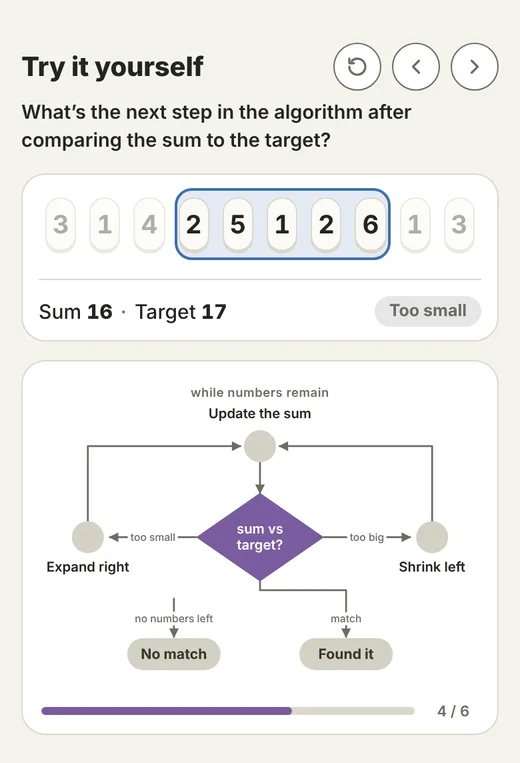
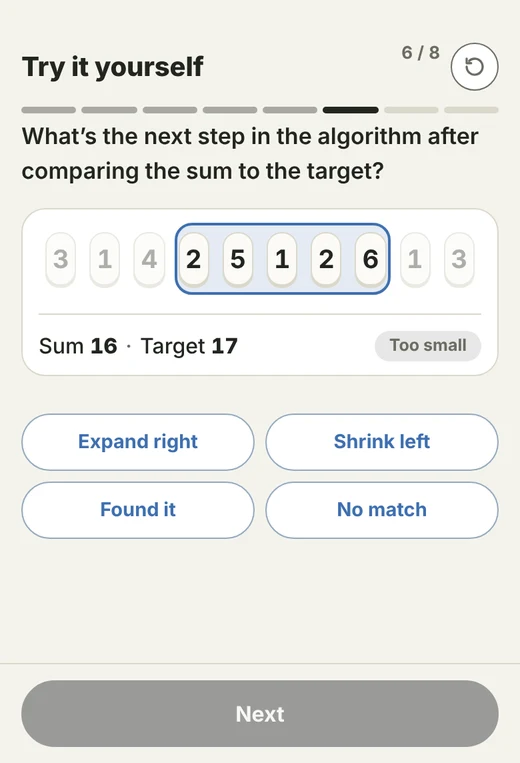
Sliding window: lesson updates (stepper removed, desktop column, Skip, Explanation label) (#37)
* Remove the Algorithm stepper section; lesson is now 8 sections

Claude-Session: https://claude.ai/code/session_01B6u6w9fTGNxU2tRw6eReYt

* Desktop: use the same single-column template as phones (top, visual, inputs, footer nav)

Claude-Session: https://claude.ai/code/session_01B6u6w9fTGNxU2tRw6eReYt

* Footer: Skip on the two animation-only sections (jumps to the finished picture)

Claude-Session: https://claude.ai/code/session_01B6u6w9fTGNxU2tRw6eReYt

* Explanation pages: add an Explanation label above the text

Claude-Session: https://claude.ai/code/session_01B6u6w9fTGNxU2tRw6eReYt

* Slightly larger body text across the lesson (17px)

Claude-Session: https://claude.ai/code/session_01B6u6w9fTGNxU2tRw6eReYt

* Hide the flowchart (puzzle and code sections); markup kept so it is easy to restore

Claude-Session: https://claude.ai/code/session_01B6u6w9fTGNxU2tRw6eReYt

* Code section: drop the intro line

Claude-Session: https://claude.ai/code/session_01B6u6w9fTGNxU2tRw6eReYt

* Home page: new sliding window preview (no flowchart, single-column footer)

Claude-Session: https://claude.ai/code/session_01B6u6w9fTGNxU2tRw6eReYt

---------

diff --git a/public/sliding-window.html b/public/sliding-window.html
@@ -55,7 +55,7 @@ button:disabled{opacity:.35;cursor:default}
 
 .ask{display:flex;flex-direction:column;gap:6px}
 .fr{display:flex;flex-wrap:nowrap;justify-content:space-between;align-items:center;gap:8px;padding-top:12px;border-top:1px solid var(--line)}
-.facts{margin:0;font:500 15px/1.4 var(--font);white-space:nowrap}
+.facts{margin:0;font:500 16px/1.4 var(--font);white-space:nowrap}
 .facts .sep{color:var(--mut);margin:0 6px}
 .fr .pill{font-size:12.5px;padding:4px 11px}
 .facts b{font-weight:800;font-variant-numeric:tabular-nums}
@@ -74,7 +74,7 @@ button:disabled{opacity:.35;cursor:default}
 .opts{display:flex;flex-direction:column;gap:8px}
 .opts[hidden]{display:none}
 .opts button{padding:14px 20px;font-size:16px;text-align:left;border-radius:999px}
-.note{margin:2px 0 0;min-height:21px;font:500 14px/1.5 var(--font);color:var(--mut)}
+.note{margin:2px 0 0;min-height:22px;font:500 15px/1.5 var(--font);color:var(--mut)}
 /* header buttons */
 .top{display:flex;justify-content:space-between;align-items:center;gap:12px}
 .acts{display:flex;gap:8px}
@@ -86,10 +86,14 @@ button:disabled{opacity:.35;cursor:default}
 .seg button[aria-pressed=true]{background:var(--ink);color:var(--card)}
 #app:not([data-view="2"]):not([data-view="3"]) .ch{display:none}
 #tlist{display:none}
+/* flowchart removed from the lesson (markup kept, hidden) */
+#app[data-view="5"] #fcard{display:none!important}
+#app[data-view="6"] :is(.ftog,#fslot){display:none!important}
 .tcall{display:none!important}
 .expl{display:none}#s1[data-ex] .expl{display:block}
 #s1[data-ex] :is(.tin,.tin3,.tctl){display:none!important}
-.expl .say{margin:0 0 14px;font:600 14.5px/1.45 var(--font);text-wrap:pretty}
+.expl .exh{margin:0 0 8px}
+.expl .say{margin:0 0 14px;font:600 17px/1.5 var(--font);text-wrap:pretty}
 .xl{display:flex;flex-direction:column;gap:6px}
 .xr{display:grid;grid-template-columns:1fr 34px;align-items:center;gap:8px}
 .xn{position:relative;display:grid;grid-template-columns:repeat(var(--n),1fr);height:28px;align-items:center;text-align:center;font:700 12.5px var(--font);color:var(--mut);border-radius:8px;background:color-mix(in srgb,var(--mut) 10%,transparent)}
@@ -115,14 +119,14 @@ button:disabled{opacity:.35;cursor:default}
 .achs button:disabled{color:var(--mut);border-color:var(--line)}
 .achs button.ok:disabled{color:var(--hit);border-color:var(--hit);background:color-mix(in srgb,var(--hit) 12%,var(--card));opacity:1}
 .achs button.ok::before{content:'\2713';margin-right:6px;font-weight:800}
-.ld{margin:0;font:600 14.5px/1.45 var(--font);text-wrap:pretty;display:none}
-#app[data-view="4"] #ld4,#app[data-view="6"] #ld6{display:block}
+.ld{margin:0;font:600 17px/1.5 var(--font);text-wrap:pretty;display:none}
+#app[data-view="4"] #ld4{display:block}
 #app[data-view="5"].ask #ldT,#app[data-view="5"].editing #ldT,#app[data-view="5"]:not(.ask) #ldS{display:block}
 #app[data-view="5"].ask[data-lp] #ldN{display:block}#app[data-lp] #ldT{display:none!important}
 .achs .lpb{display:none}#app[data-lp] .achs button:not(.lpb){display:none}#app[data-lp] .achs .lpb{display:block}
 #flow.lp7 .region{stroke:var(--fa);stroke-width:2}#flow.lp7 .lp{fill:var(--fa);font-weight:800}#flow.lp7 #lbNo{fill:var(--fa);font-weight:800}
 .ptx .cap{text-align:left;min-height:0}
-@media (min-width:820px){.ld{font-size:19px;line-height:1.5}.ptx .cap{font-size:17px;line-height:1.5;font-weight:500}}
+@media (min-width:820px){.ptx .cap{font-size:17px;line-height:1.5;font-weight:500}}
 /* third view: variables */
 .vars{display:none;grid-template-columns:1fr 1fr 1.35fr 1fr;gap:8px}
 #app[data-view="6"] .fr{display:none}
@@ -155,7 +159,7 @@ code{font:600 .86em ui-monospace,SFMono-Regular,Menlo,monospace;background:color
 .fslot,.cdo,.cfb{display:none}
 #app[data-view="6"] :is(.fslot,.cdo,.cfb){display:block}
 .fslot{background:var(--card);border:1px solid var(--line);border-radius:18px;padding:10px 12px}
-.cfb{margin:0;font:500 14.5px/1.45 var(--font);min-height:1.45em;text-wrap:pretty}
+.cfb{margin:0;font:500 16px/1.5 var(--font);min-height:1.45em;text-wrap:pretty}
 .cdo button{padding:12px 28px;font-size:14.5px;color:var(--ok);border-color:color-mix(in srgb,var(--ok) 45%,var(--line))}
 .cdo button:disabled{color:var(--mut);border-color:var(--line)}
 #app[data-view="6"] .pg{display:none}
@@ -195,6 +199,7 @@ code{font:600 .86em ui-monospace,SFMono-Regular,Menlo,monospace;background:color
 .stt{font:800 20px/1.2 var(--font);letter-spacing:-.005em}
 .sa{display:flex;gap:8px;flex:none}
 .segs{display:flex;gap:4px}
+.segs button[hidden]{display:none}
 .segs button{position:relative;flex:1;height:5px;padding:0;border:0;border-radius:99px;background:var(--line);transition:background .25s}
 .segs button::before{content:"";position:absolute;inset:-10px 0}
 .segs button.past{background:var(--mut);opacity:.55}
@@ -205,12 +210,12 @@ code{font:600 .86em ui-monospace,SFMono-Regular,Menlo,monospace;background:color
 /* first view: the problem, with worked examples drawn like the window below */
 #app[data-view="0"] #wcard,#app[data-view="0"] #rs,#app:is([data-view="0"],[data-view="1"],[data-view="2"],[data-view="3"]) #rs2,#app[data-view="0"] .seg,#app[data-view="1"] #wcard,#app[data-view="1"] #rs,#app[data-view="1"] .seg,#app[data-view="2"] .seg,#app[data-view="2"] .sr,#app[data-view="3"] .seg,#app[data-view="3"] .sr{display:none}
 #s0{gap:10px}
-.pq{margin:0;font:500 16px/1.45 var(--font)}
+.pq{margin:0;font:500 18px/1.5 var(--font)}
 .pq b{font-weight:800}
 .pq.sub{font-size:14px;color:var(--mut)}
 /* the sample problem: drag across the numbers, then check */
 .pz{background:var(--card);border:1px solid var(--line);border-radius:20px;padding:16px 14px 14px;display:flex;flex-direction:column;gap:14px}
-.pzf{margin:0;font:500 15px/1.4 var(--font);text-align:center;font-variant-numeric:tabular-nums}
+.pzf{margin:0;font:500 16px/1.4 var(--font);text-align:center;font-variant-numeric:tabular-nums}
 .pzf b{font-weight:800}.pzf .sep{color:var(--mut);margin:0 6px}
 .pzr{display:grid;grid-template-columns:repeat(var(--n),1fr);gap:6px;touch-action:manipulation;user-select:none;-webkit-user-select:none}
 .pzr .tl{height:54px;display:grid;place-items:center;border-radius:12px;background:var(--tile);border:2px solid transparent;font:800 20px var(--font);font-variant-numeric:tabular-nums;cursor:pointer;transition:background .15s,border-color .15s}
@@ -231,7 +236,7 @@ code{font:600 .86em ui-monospace,SFMono-Regular,Menlo,monospace;background:color
 .hr .exc{grid-column:1/-1;margin-left:4px;font:600 12px var(--font);letter-spacing:.02em;color:var(--mut)}
 .hr .exc b{color:var(--ink);font-weight:800}
 #cp{font-size:22px;line-height:1;padding:2px 8px}
-.cap{margin:0;min-height:46px;font:600 15px/1.45 var(--font);text-align:center}
+.cap{margin:0;min-height:46px;font:600 16.5px/1.5 var(--font);text-align:center}
 .cap b{font-weight:800;font-variant-numeric:tabular-nums}
 /* flowchart: a shaded loop region, neutral nodes, the current step lights up */
 #flow{display:block;width:100%;height:auto}
@@ -276,28 +281,16 @@ code{font:600 .86em ui-monospace,SFMono-Regular,Menlo,monospace;background:color
 #ed{margin-right:8px}
 #s1[data-ts="2"] .ta,#s1:not([data-ts="2"]) .tb{display:none!important}
 #app.editing #s1.slide .tb,#app.editing #s1.slide .ta{display:block!important}#app.editing #s1.slide .tin.ta{display:flex!important}
-.tin3{margin:0;font:600 14.5px/1.45 var(--font);text-wrap:pretty}
-@media (min-width:820px){.tin3{font-size:19px;line-height:1.5}}
+.tin3{margin:0;font:600 17px/1.5 var(--font);text-wrap:pretty}
 .tnx{padding:12px 6px;font-size:14.5px;border-radius:999px;background:var(--btn);color:var(--onbtn);border-color:var(--btn)}
 .tctl.nx .tbtn{display:none}
-.tin{display:flex;flex-direction:column;gap:8px}.tin p{margin:0;font:600 14.5px/1.45 var(--font);text-wrap:pretty}
+.tin{display:flex;flex-direction:column;gap:8px}.tin p{margin:0;font:600 17px/1.5 var(--font);text-wrap:pretty}
 /* two panels: the words on the left, the thing to look at and play with on the right */
 .slide.two{display:flex;flex-direction:column;gap:20px}
 .pvz{display:flex;flex-direction:column;gap:20px;min-width:0}
 .ptx{display:flex;flex-direction:column;gap:12px;min-width:0}
 .ptx .wintro{text-align:left;text-wrap:pretty}
 .wrap{transition:max-width .35s var(--ease)}
-@media (min-width:820px){
-  #app{max-width:1040px}
-  .sec{margin-bottom:18px}
-  .slide.two{display:grid;grid-template-columns:minmax(0,5fr) minmax(0,7fr);column-gap:0;align-items:stretch}
-  .ptx{padding:4px 44px 4px 0}
-  .pvz{padding-left:44px;border-left:1px solid var(--line)}
-  .ptx .pq,.ptx .wintro,.ptx .tin p{font:600 19px/1.5 var(--font)}
-  .tcall{font-size:17px;line-height:1.5;padding:14px 16px 14px 52px}.tcall::before{left:16px;top:15px}
-  .ptx .pq{font-weight:500}.ptx .pq b{font-weight:800}
-  .tin{gap:14px}
-}
 .skp{color:inherit;background:repeating-linear-gradient(135deg,color-mix(in srgb,var(--under) 50%,transparent) 0 2px,transparent 2px 5px),color-mix(in srgb,var(--mut) 28%,transparent);border-radius:4px;padding:1px 3px;-webkit-box-decoration-break:clone;box-decoration-break:clone}
 .swin{color:inherit;background:color-mix(in srgb,var(--under) 15%,transparent);box-shadow:0 0 0 2px var(--under);border-radius:8px;padding:1px 4px;margin:0 2px;-webkit-box-decoration-break:clone;box-decoration-break:clone}
 .tctl{display:flex;flex-direction:column;gap:6px}
@@ -361,7 +354,7 @@ button[aria-expanded=true]{border-color:var(--mut)}
 .bfc .tr.match:not(.vis){--c:var(--ok)}.bfc .tr.match:not(.vis)::after{display:none}.bfc .tr.match:not(.vis) i{opacity:.34}
 .tlist.sm{--p:9px;padding-top:6px}.tlist.sm .tr{height:6px;margin-bottom:3px;border-radius:3px}.tlist.sm .tr i{border-radius:3px}
 .tlist.sm .tr.match::after{font-size:11px;right:3px}.tlist.sm .tcr{height:12px;border-radius:6px;top:6px}
-.wintro{margin:0;font:600 15px/1.45 var(--font);text-align:center;text-wrap:balance}
+.wintro{margin:0;font:600 17px/1.5 var(--font);text-align:center;text-wrap:balance}
 .wtab{display:inline-flex;gap:2px;padding:3px;border:1px solid var(--line);border-radius:12px;background:var(--card)}
 .wtab button{border:0;background:none;padding:7px 16px;border-radius:9px;font:700 14px var(--font);color:var(--mut);white-space:nowrap}
 .wtab button[aria-pressed=true]{background:var(--ink);color:var(--card)}
@@ -398,13 +391,15 @@ button[aria-expanded=true]{border-color:var(--mut)}
 /* phones: one pane. Keep the thing you act on and what it changes on screen together. */
 .rs2{display:none}.ftog{display:none}.dock{display:contents}
 .cnt{display:none;font:700 13px var(--font);color:var(--mut);font-variant-numeric:tabular-nums;white-space:nowrap}
-.foot{display:none;position:fixed;left:0;right:0;bottom:0;z-index:30;gap:10px;align-items:center;background:var(--bg);border-top:1px solid var(--line);padding:12px max(16px,env(safe-area-inset-right,0px)) calc(12px + env(safe-area-inset-bottom,0px)) max(16px,env(safe-area-inset-left,0px))}
+.foot{display:none;position:fixed;left:0;right:0;bottom:0;z-index:30;gap:10px;align-items:center;background:var(--bg);border-top:1px solid var(--line);padding:12px max(16px,calc((100% - 600px)/2 + 16px)) calc(12px + env(safe-area-inset-bottom,0px)) max(16px,calc((100% - 600px)/2 + 16px))}
 .foot #fb{flex:1;padding:14px 20px;font-size:16px;font-weight:700;border-radius:999px;background:var(--btn);color:var(--onbtn);border-color:var(--btn)}
 .foot #fb:disabled{opacity:.4}
 .foot .rp{flex:none;width:48px;height:48px;padding:0;border-radius:50%;display:grid;place-items:center;color:var(--mut)}
 .foot .rp[hidden]{display:none}
+.foot .sk{flex:none;padding:12px 10px;border:0;background:none;color:var(--mut);font:700 15px var(--font)}
+.foot .sk[hidden]{display:none}
 .foot .rp svg{width:22px;height:22px;fill:none;stroke:currentColor;stroke-width:2;stroke-linecap:round;stroke-linejoin:round}
-@media (max-width:819px){
+@media (min-width:0px){
   .car{overflow:clip}
   .top{display:none!important}
   #cp,#cx{display:none}.cnt{display:inline}
@@ -437,7 +432,7 @@ button[aria-expanded=true]{border-color:var(--mut)}
 </head><body><div class="wrap" id="app">
   <header>
     <div class="top"><h1>Sliding window</h1><div class="acts"><button id="ed" hidden>Edit text</button><button id="rs">Reset</button></div></div>
-<nav class="sec" aria-label="Sections"><div class="shd"><div><b class="stt" id="stt">The problem</b></div><div class="sa"><span class="cnt" id="cnt" aria-live="polite">1 / 9</span><button id="rs2" class="rb rs2" aria-label="Reset"><svg viewBox="0 0 24 24"><path d="M4 12a8 8 0 1 0 2.5-5.8M4 4v4.5h4.5"/></svg></button><button id="cp" class="rb" aria-label="Previous section" disabled><svg viewBox="0 0 24 24"><path d="M15 6l-6 6 6 6"/></svg></button><button id="cx" class="rb" aria-label="Next section"><svg viewBox="0 0 24 24"><path d="M9 6l6 6-6 6"/></svg></button></div></div><div class="segs"><button id="v0" aria-label="The problem" aria-current="true"></button><button id="v1" aria-label="Why Sliding Window" aria-current="false"></button><button id="v7" aria-label="Why Sliding Window, continued" aria-current="false"></button><button id="v2" aria-label="Try it yourself" aria-current="false"></button><button id="v3" aria-label="Try it yourself, part two" aria-current="false"></button><button id="v4" aria-label="Algorithm" aria-current="false"></button><button id="v5" aria-label="Try it yourself, algorithm" aria-current="false"></button><button id="v8" aria-label="Try it yourself, no match" aria-current="false"></button><button id="v6" aria-label="Code" aria-current="false"></button></div></nav>
+<nav class="sec" aria-label="Sections"><div class="shd"><div><b class="stt" id="stt">The problem</b></div><div class="sa"><span class="cnt" id="cnt" aria-live="polite">1 / 9</span><button id="rs2" class="rb rs2" aria-label="Reset"><svg viewBox="0 0 24 24"><path d="M4 12a8 8 0 1 0 2.5-5.8M4 4v4.5h4.5"/></svg></button><button id="cp" class="rb" aria-label="Previous section" disabled><svg viewBox="0 0 24 24"><path d="M15 6l-6 6 6 6"/></svg></button><button id="cx" class="rb" aria-label="Next section"><svg viewBox="0 0 24 24"><path d="M9 6l6 6-6 6"/></svg></button></div></div><div class="segs"><button id="v0" aria-label="The problem" aria-current="true"></button><button id="v1" aria-label="Why Sliding Window" aria-current="false"></button><button id="v7" aria-label="Why Sliding Window, continued" aria-current="false"></button><button id="v2" aria-label="Try it yourself" aria-current="false"></button><button id="v3" aria-label="Try it yourself, part two" aria-current="false"></button><button id="v4" hidden aria-label="Algorithm" aria-current="false"></button><button id="v5" aria-label="Try it yourself, algorithm" aria-current="false"></button><button id="v8" aria-label="Try it yourself, no match" aria-current="false"></button><button id="v6" aria-label="Code" aria-current="false"></button></div></nav>
     <div class="sr"><div class="seg" role="group" aria-label="Example"><button id="e1" aria-pressed="true">Match</button><button id="e2" aria-pressed="false">No match</button></div></div>
   </header>
 
@@ -499,7 +494,7 @@ button[aria-expanded=true]{border-color:var(--mut)}
         <p class="note" id="note" aria-live="polite"></p>
       </div>
         <p class="tcall ta" id="tcall" data-ek="tcall" hidden>By choosing to shrink the subarray here, we skip a number of unnecessary checks.</p>
-        <div class="expl" id="expl"><p class="say" id="xsay"></p><div class="xl" id="xl"></div></div>
+        <div class="expl" id="expl"><p class="exh">Explanation</p><p class="say" id="xsay"></p><div class="xl" id="xl"></div></div>
         <p class="tcall tb" id="tcall2" data-ek="tcall2" hidden>By choosing to extend the subarray here, we skip a number of unnecessary future checks.</p></div>
       <div class="pvz" id="pvz1">
       <div class="tlist" id="tlist" aria-hidden="true"><div class="tcr" id="tcr"></div></div>
@@ -512,7 +507,7 @@ button[aria-expanded=true]{border-color:var(--mut)}
         <p class="ld" id="ldS"></p>
         <p class="ld" id="ldN">Are there any numbers left to add?</p>
         <p class="ld" id="ld5" data-ek="ld5">Each move changes one variable, and the sum follows.</p>
-        <p class="ld" id="ld6" data-ek="ld6">Every line of code is one step of the flowchart.</p>
+        <p class="ld" id="ld6" data-ek="ld6">Every line of code is one step of the algorithm.</p>
         <button class="ftog" id="ftog" aria-expanded="false">Flowchart</button>
         <div class="fslot" id="fslot"></div>
         <div class="dock">
@@ -563,7 +558,7 @@ button[aria-expanded=true]{border-color:var(--mut)}
     </div>
   </div></div>
 </div>
-<div class="foot" id="foot"><button class="rp" id="rp" aria-label="Replay" hidden><svg viewBox="0 0 24 24"><path d="M4 12a8 8 0 1 0 2.5-5.8M4 4v4.5h4.5"/></svg></button><button id="fb" disabled>Next</button></div>
+<div class="foot" id="foot"><button class="rp" id="rp" aria-label="Replay" hidden><svg viewBox="0 0 24 24"><path d="M4 12a8 8 0 1 0 2.5-5.8M4 4v4.5h4.5"/></svg></button><button class="sk" id="sk" hidden>Skip</button><button id="fb" disabled>Next</button></div>
 
 <script>
 (function(){
@@ -833,7 +828,7 @@ var s0=$('s0'),s1=$('s1'),sy=$('sy'),s2=$('s2'),car=$('car'),track=$('track');
 function fitCar(){app.style.setProperty('--ch',wcd.offsetHeight+'px');var a=[s0,sy,s1,s1,s2,s2,s2][view];car.style.height=(a.offsetHeight+12)+'px'}
 car.addEventListener('scroll',function(){if(car.scrollLeft||car.scrollTop){car.scrollLeft=0;car.scrollTop=0}});
 if(window.ResizeObserver){var ro=new ResizeObserver(fitCar);ro.observe(s0);ro.observe(s1);ro.observe(sy);ro.observe(s2)}
-var TT=['The problem','Why Sliding Window','','','Algorithm','Try it yourself','Code','Why (cont.)','Try it yourself: no match'],ORDER=[0,1,7,2,3,4,5,8,6],sid=0;
+var TT=['The problem','Why Sliding Window','','','Algorithm','Try it yourself','Code','Why (cont.)','Try it yourself: no match'],ORDER=[0,1,7,2,3,5,8,6],sid=0;
 var wcd=$('wcard'),pvz1=$('pvz1'),varsEl=$('vars');
 /* the two try-it sections reuse the race's numbers (and its target); everything after goes back to the short example */
 function useData(){A=WX.slice();n=A.length;T=exNo?19:WG;build()}
@@ -863,14 +858,14 @@ $('cx').onclick=function(){if(sid!==6)setView(ORDER[ORDER.indexOf(sid)+1])};
 /* footer: one primary button in a fixed slot, driven by the state of the current section */
 var RPI=$('rp').innerHTML,fb=$('fb'),rp=$('rp'),fAct=null,rAct=null;
 function nextSec(){if(sid!==6)setView(ORDER[ORDER.indexOf(sid)+1])}
-function footSync(){var lab='Next',dis=true,act=null,rep=null,bk=false,b;
+function footSync(){var lab='Next',dis=true,act=null,rep=null,bk=false,skp=null,b;
   if(sid===0){if($('pz').classList.contains('done')){dis=false;act=nextSec}else{lab='Check';dis=$('pc').disabled;act=function(){$('pc').click()}}}
-  else if(sid===1||sid===7){b=sid===1?$('wp'):$('wp2');if(b.textContent==='Replay'){if(!b.disabled){dis=false;act=nextSec;rep=function(){b.click()}}}else{lab='Play';dis=b.disabled;act=function(){b.click()}}}
+  else if(sid===1||sid===7){b=sid===1?$('wp'):$('wp2');if(b.textContent==='Replay'){if(!b.disabled){dis=false;act=nextSec;rep=function(){b.click()}}}else{lab='Play';dis=b.disabled;act=function(){b.click()};skp=sid===1?whySkip:bfSkip}}
   else if(sid===2||sid===3){dis=$('s1').dataset.done!=='1';act=exNext}
   else if(sid===4){if(F.done){dis=false;act=nextSec}else{lab='Next step';dis=false;act=function(){step()}}rep=H.length?function(){back()}:null;bk=true}
   else if(sid===5||sid===8){b=$('nbtn');if(b.style.visibility==='visible'&&!b.disabled){dis=false;act=function(){b.click()}}else if(F.done){dis=false;act=nextSec}}
   else if(sid===6){b=$('crb');if(b.textContent==='Replay'){lab='Done';rep=b.disabled?null:function(){b.click()}}else if(b.textContent==='Run'){lab='Run';dis=b.disabled;act=function(){b.click()}}else{lab='Check';dis=b.disabled;act=function(){b.click()}}}
-  fb.textContent=lab;fb.disabled=dis;fAct=act;rAct=rep;rp.hidden=!rep;rp.setAttribute('aria-label',bk?'Back one step':'Replay');rp.innerHTML=bk?'<svg viewBox="0 0 24 24"><path d="M15 6l-6 6 6 6"/></svg>':RPI}
+  $('sk').hidden=!skp;$('sk').onclick=skp;fb.textContent=lab;fb.disabled=dis;fAct=act;rAct=rep;rp.hidden=!rep;rp.setAttribute('aria-label',bk?'Back one step':'Replay');rp.innerHTML=bk?'<svg viewBox="0 0 24 24"><path d="M15 6l-6 6 6 6"/></svg>':RPI}
 fb.onclick=function(){if(fAct)fAct()};rp.onclick=function(){if(rAct)rAct()};
 new MutationObserver(footSync).observe(app,{subtree:true,childList:true,characterData:true,attributes:true,attributeFilter:['class','disabled','hidden','style','data-view','data-st','data-done','data-ex']});
 footSync();
@@ -933,6 +928,9 @@ function bfPlay(){bfReset();bfx.hidden=false;$('wp2').disabled=true;fitCar();var
   bfr.style.setProperty('--d','.06s');
   bft=setInterval(function(){i++;if(i>=WB.length){bfStop();$('wp2').disabled=false;$('wp2').textContent='Replay';return}bfShow(i)},75)}
 $('wp2').onclick=bfPlay;
+/* Skip: jump an animation to its finished picture */
+function whySkip(){whyStop();wi=Math.max(WB.length,WS.length);whyPaint();wp.disabled=false;wp.textContent='Replay'}
+function bfSkip(){bfStop();bfx.hidden=false;bfr.style.setProperty('--d','0s');for(var i=0;i<WB.length;i++)bfShow(i);$('wp2').disabled=false;$('wp2').textContent='Replay';fitCar()}
 whyPaint();
 /* part two: start right at the decision (already past the target); every move is the learner's */
 var wzc=$('wzc'),vl=$('wzv'),cmp=$('cmp'),wl=0,wr=0,wk=0,ww=0,wdone=false,W0=WB.filter(function(w){return w[0]===0}),WM=[],

diff --git a/app/page.tsx b/app/page.tsx
@@ -8,7 +8,7 @@ const lessons = [
   {
     href: "/sliding-window",
     preview: "/sliding-window-preview.webp",
-    alt: "Sliding window lesson on a phone: the Try it yourself question, with a five-number window highlighted above a flowchart of the algorithm",
+    alt: "Sliding window lesson on a phone: the Try it yourself question, with a five-number window highlighted above four answer buttons",
     title: "Sliding window",
     height: 763,
   },
